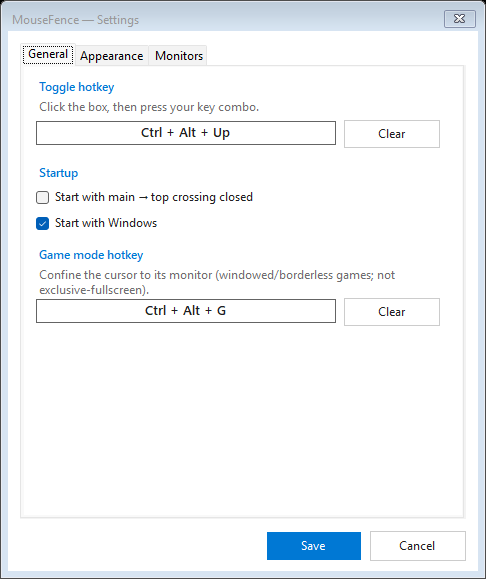
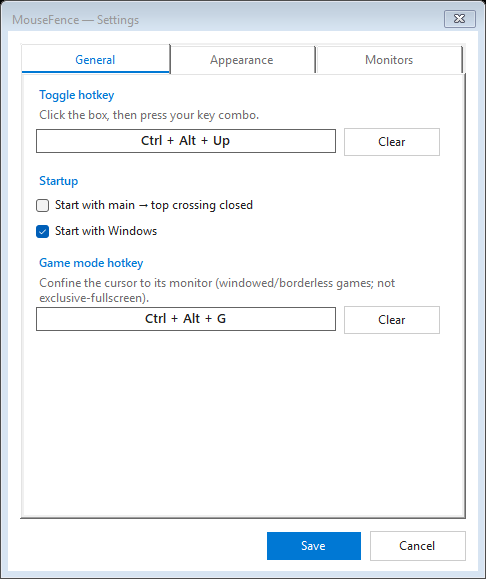
Polish: dark-themed tab headers + a toggle for deliberate-vs-free crossing
- Owner-draw the settings TabControl so the tab strip follows the theme (the
  headers no longer stay white in dark mode); selected tab gets an accent underline.
- New "Require a deliberate push to cross up" option (Monitors tab): on keeps the
  intent check (slow/jitter/corners don't cross), off lets any upward move cross.
- Wider fixed tabs so the header strip fills cleanly.

diff --git a/SettingsForm.cs b/SettingsForm.cs
@@ -24,6 +24,7 @@ public sealed class SettingsForm : Form
 
     private readonly TabControl _tabs;
     private readonly TextBox _gameHotkeyBox;
+    private readonly CheckBox _deliberateCheck;
     private readonly Dictionary<string, HashSet<string>> _rules = new();
     private bool _mc, _ma, _ms, _mw;
     private Keys _key;
@@ -64,7 +65,8 @@ public sealed class SettingsForm : Form
 
         var headFont = new Font("Segoe UI Semibold", 9f);
 
-        _tabs = new TabControl { Left = 12, Top = 12, Width = 446, Height = 476 };
+        _tabs = new TabControl { Left = 12, Top = 12, Width = 446, Height = 476, DrawMode = TabDrawMode.OwnerDrawFixed, SizeMode = TabSizeMode.Fixed, ItemSize = new Size(147, 28) };
+        _tabs.DrawItem += DrawTab;
         var tabGeneral = new TabPage(Strings.TabGeneral) { Padding = new Padding(10) };
         var tabAppearance = new TabPage(Strings.TabAppearance) { Padding = new Padding(10) };
         var tabMonitors = new TabPage(Strings.TabMonitors) { Padding = new Padding(10) };
@@ -159,6 +161,9 @@ public sealed class SettingsForm : Form
         _topsCheck.ItemCheck += TopsCheck_ItemCheck;
         tabMonitors.Controls.Add(_topsCheck);
 
+        _deliberateCheck = new CheckBox { Text = Strings.DeliberateCrossLabel, Left = 12, Top = 378, Width = 416, Height = 34, Checked = s.DeliberateCross };
+        tabMonitors.Controls.Add(_deliberateCheck);
+
         if (_bottoms.Count > 0 && _tops.Count > 0) { _fromCombo.SelectedIndex = 0; }
 
         // ---- buttons ----
@@ -250,9 +255,24 @@ public sealed class SettingsForm : Form
 
     private Theme SelectedTheme() => Theming.Resolve(_themeCombo.SelectedIndex switch { 1 => "Light", 2 => "Dark", _ => "System" });
 
+    private void DrawTab(object sender, DrawItemEventArgs e)
+    {
+        var t = SelectedTheme();
+        var rect = _tabs.GetTabRect(e.Index);
+        bool sel = e.Index == _tabs.SelectedIndex;
+        using (var bg = new SolidBrush(sel ? t.Surface : t.Back))
+            e.Graphics.FillRectangle(bg, rect);
+        if (sel)
+            using (var bar = new SolidBrush(t.Accent))
+                e.Graphics.FillRectangle(bar, rect.X, rect.Bottom - 2, rect.Width, 2);
+        TextRenderer.DrawText(e.Graphics, _tabs.TabPages[e.Index].Text, _tabs.Font, rect,
+            sel ? t.Accent : t.Subtle, TextFormatFlags.HorizontalCenter | TextFormatFlags.VerticalCenter | TextFormatFlags.EndEllipsis);
+    }
+
     private void ApplyThemeLive()
     {
         Theming.Apply(this, SelectedTheme());
+        _tabs.Invalidate();
         _map.Invalidate();
         Invalidate(true);
     }
@@ -328,6 +348,7 @@ public sealed class SettingsForm : Form
             Language = _langCombo.SelectedIndex switch { 1 => "en", 2 => "tr", _ => "auto" },
             Theme = _themeCombo.SelectedIndex switch { 1 => "Light", 2 => "Dark", _ => "System" },
             ConfineModCtrl = _gc, ConfineModAlt = _ga, ConfineModShift = _gs, ConfineModWin = _gw, ConfineHotKey = _gkey,
+            DeliberateCross = _deliberateCheck.Checked,
         };
 
         if (res.Mode == "Manual")

diff --git a/tests/Tests.cs b/tests/Tests.cs
@@ -220,6 +220,14 @@ Console.WriteLine("MouseFence barrier logic — scenario tests\n");
     Check("game mode: leaving upward is also blocked", up.act == GuardAction.Block, $"act={up.act}");
 }
 
+// ---- deliberate-cross toggle: OFF = any upward move crosses ----
+{
+    var c = New(); c.DeliberateCross = false;
+    Move(c, 1280, 0, true);
+    var r = Move(c, 1290, -3, true);          // would be blocked when deliberate is ON
+    Check("deliberate OFF: any upward move through the gate crosses", r.act == GuardAction.Pass && r.onTop, $"act={r.act}");
+}
+
 Console.WriteLine();
 Console.WriteLine(fails == 0 ? "ALL TESTS PASSED" : $"{fails} TEST(S) FAILED");
 Environment.Exit(fails == 0 ? 0 : 1);

diff --git a/MouseGuard.cs b/MouseGuard.cs
@@ -25,6 +25,13 @@ public sealed class MouseGuard : IDisposable
         set => _core.Confine = value;
     }
 
+    /// <summary>When true a deliberate upward push is required to cross; when false any upward move crosses.</summary>
+    public bool DeliberateCross
+    {
+        get => _core.DeliberateCross;
+        set => _core.DeliberateCross = value;
+    }
+
     public MouseGuard() => _proc = HookCallback;
 
     /// <summary>Configure the barrier from the top monitors, the allowed crossing gates, and all monitor rects (for game mode).</summary>

diff --git a/GuardCore.cs b/GuardCore.cs
@@ -16,6 +16,7 @@ public sealed class GuardCore
 {
     public int CrossMinUp = 3;     // min upward px in a move to count as a deliberate cross
     public int CrossSlack = 5;     // allowed horizontal beyond the vertical component
+    public bool DeliberateCross = true;   // true: a deliberate push is required; false: any upward move crosses
 
     public bool HasTop;
     public int BarrierY;
@@ -105,7 +106,8 @@ public sealed class GuardCore
         bool inGate = gatesEnabled && LastY >= BarrierY && InSameGate(x, LastX);
         int dxAbs = Math.Abs(x - LastX);
         int dyUp = LastY - y;
-        if (inGate && dyUp >= CrossMinUp && dxAbs <= dyUp + CrossSlack)
+        bool intent = DeliberateCross ? (dyUp >= CrossMinUp && dxAbs <= dyUp + CrossSlack) : dyUp > 0;
+        if (inGate && intent)
         {
             OnTop = true;
             Accept(x, y);

diff --git a/Strings.cs b/Strings.cs
@@ -69,6 +69,7 @@ public static class Strings
     public static string AllowedTopsLabel => G("AllowedTopsLabel");
     public static string RuleHint => G("RuleHint");
     public static string NoTopsHint => G("NoTopsHint");
+    public static string DeliberateCrossLabel => G("DeliberateCrossLabel");
     public static string MenuGame => G("MenuGame");
     public static string GameHotkeyHead => G("GameHotkeyHead");
     public static string GameHotkeyHint => G("GameHotkeyHint");
@@ -124,6 +125,7 @@ public static class Strings
         ["AllowedTopsLabel"] = "May cross up into",
         ["RuleHint"] = "Pick a bottom screen, then check which top screens it may cross up into. (Empty = the primary may cross up into every top.)",
         ["NoTopsHint"] = "No top monitors detected — nothing to configure.",
+        ["DeliberateCrossLabel"] = "Require a deliberate push to cross up (off = any upward move crosses)",
         ["MenuGame"] = "Game mode (confine cursor)",
         ["GameHotkeyHead"] = "Game mode hotkey",
         ["GameHotkeyHint"] = "Confine the cursor to its monitor (windowed/borderless games; not exclusive-fullscreen).",

diff --git a/Settings.cs b/Settings.cs
@@ -22,6 +22,7 @@ public sealed class Settings
     // behaviour
     public bool StartGateClosed { get; set; } = true;  // main->top crossing blocked at launch
     public bool AutoStart { get; set; } = false;       // launch with Windows
+    public bool DeliberateCross { get; set; } = true;  // true: deliberate push to cross; false: any upward move
 
     // which monitors to block
     public string Mode { get; set; } = "AutoTop";   // "AutoTop" | "Manual"

diff --git a/TrayApplicationContext.cs b/TrayApplicationContext.cs
@@ -98,6 +98,7 @@ public sealed class TrayApplicationContext : ApplicationContext
         }
 
         _guard.Configure(tops.Select(t => t.Bounds), gates, monitors.Select(m => m.Bounds));
+        _guard.DeliberateCross = _settings.DeliberateCross;
     }
 
     private void RegisterHotkey()